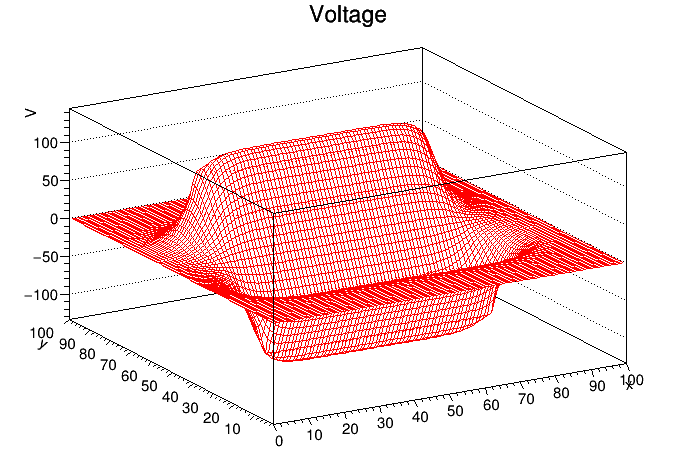
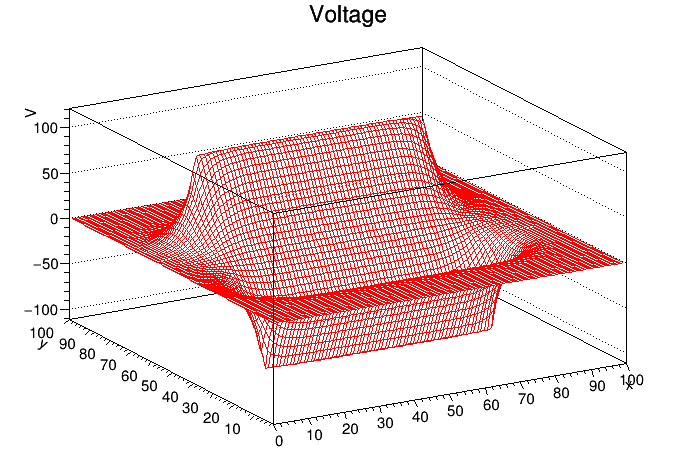
PDE part 3

diff --git a/LaplaceLine3.C b/LaplaceLine3.C
@@ -92,11 +92,13 @@ TGraph2D* LaplaceLine(int maxIter=100, double eps=0.001, int Npts=100, TCanvas *
   int plateBot = Npts/3;
   int plateLef = Npts/6;
   int plateRig = Npts/6*5;
+  int width = Npts/12;
   double rho = 0.25;
-  for (int i=plateLef; i<=plateRig; i++) {
-    V[i][plateTop] = Vtop;            // set voltage at wire
-    V[i][plateBot] = -Vtop;
-  }
+  for (int i=plateLef; i<=plateRig; i++)
+    for( int j=0; j<=width; j++) {
+      V[i][plateTop+j] = Vtop;            // set voltage at wire
+      V[i][plateBot-j] = -Vtop;
+    }
   int msec = 1000/rate;                                      // milliseconds sleep between frames
   TBox *plotRange = new TBox(0,0,1.1*L,1.1*L);
 
@@ -111,10 +113,11 @@ TGraph2D* LaplaceLine(int maxIter=100, double eps=0.001, int Npts=100, TCanvas *
   do{
     dV=iterateJ(V, rho, delta, plateTop, plateBot, plateLef, plateRig);   // iterate using Jacobi method
     //dV=iterateGS(V);   // iterate using Gauss-Seidel method
-    for (int i=plateLef; i<=plateRig; i++) {
-      V[i][plateTop] = Vtop;
-      V[i][plateBot] = -Vtop;
-    }
+    for (int i=plateLef; i<=plateRig; i++)
+      for (int j=0; j<=width; j++) {
+	V[i][plateTop+j] = Vtop;
+	V[i][plateBot-j] = -Vtop;
+      }
     ++niter;
     if (tc) {
       tc->cd();
@@ -187,7 +190,7 @@ int main(int argc, char *argv[]){
   
   TImage* img = TImage::Create();
   img->FromPad(tc);
-  img->WriteImage("LaplaceLine2.png");
+  img->WriteImage("LaplaceLine3.png");
 
   cout << "Press ^c to exit" << endl;
   theApp.SetIdleTimer(30,".q");  // set up a failsafe timer to end the program  
